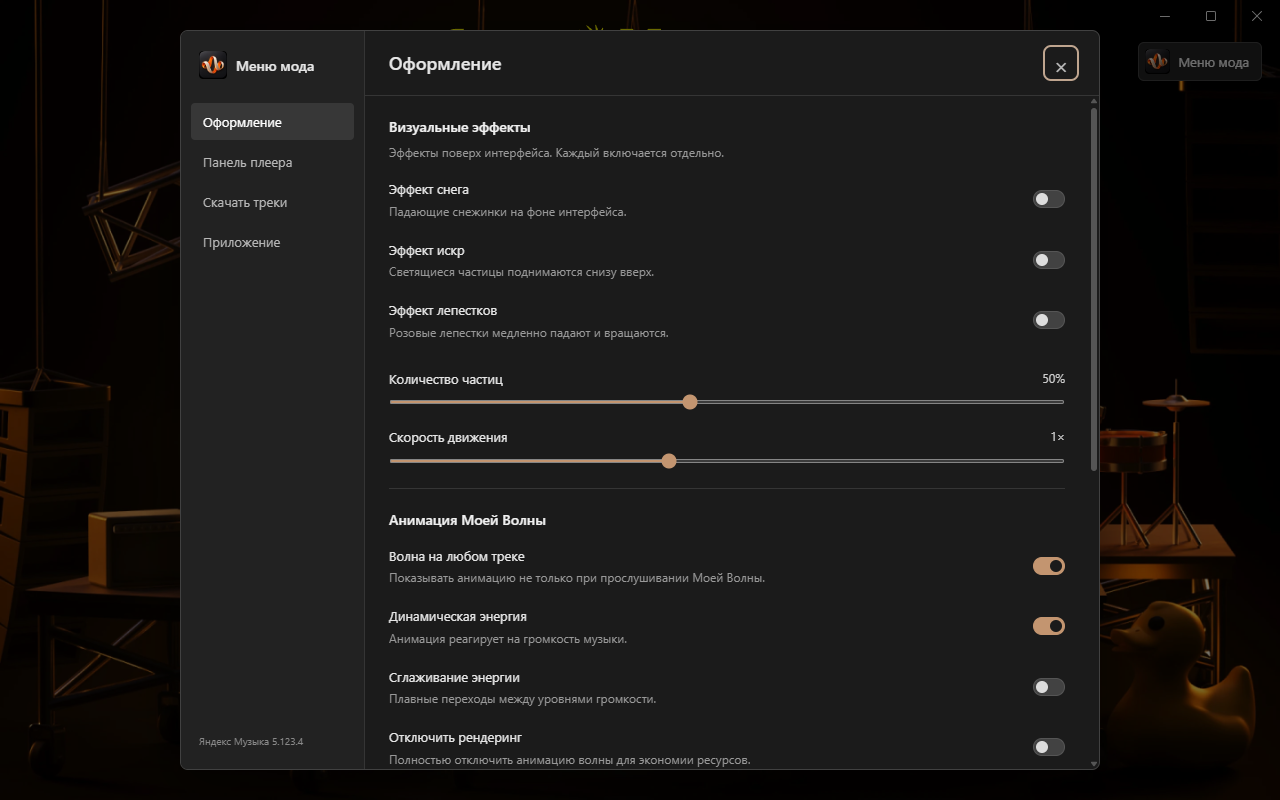
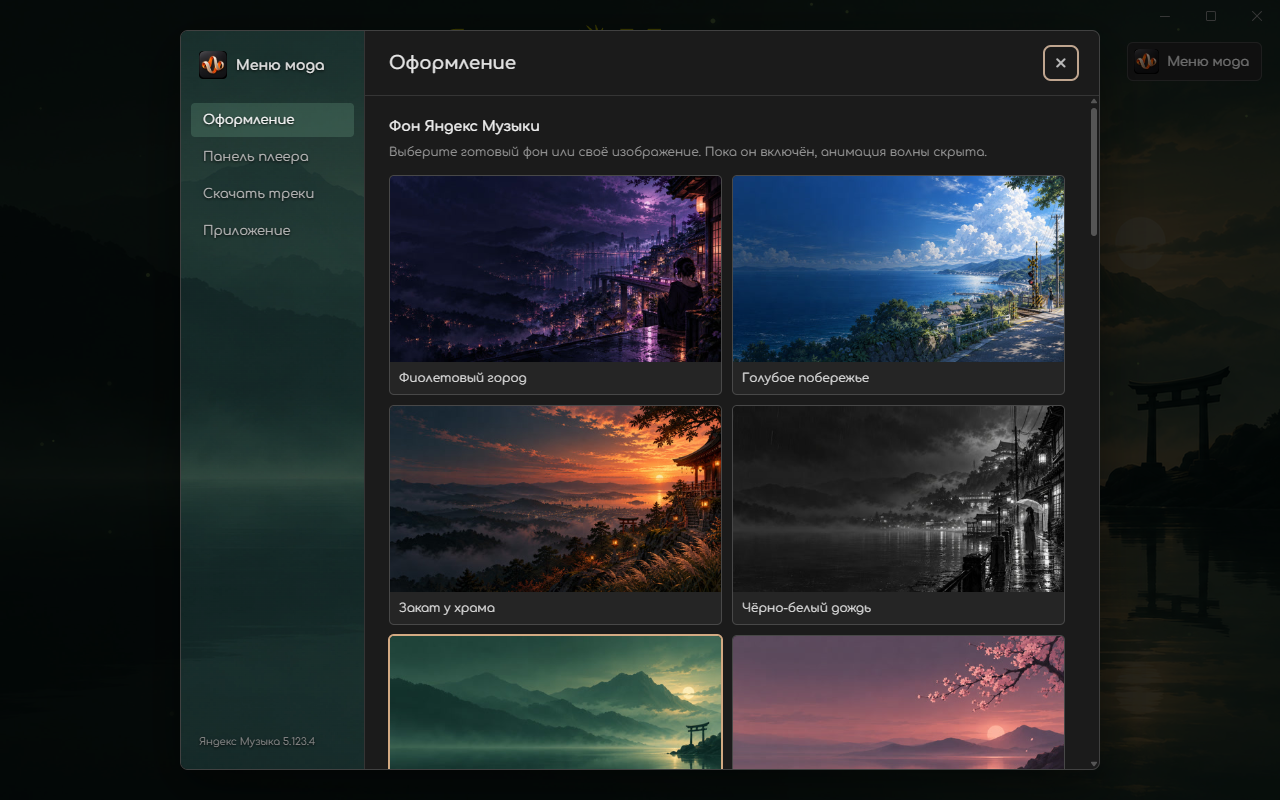
Обновить инструкцию и скриншоты для версии 1.3.0

diff --git a/README.md b/README.md
@@ -1,45 +1,15 @@
-# Яндекс Музыка Мод
+# Яндекс Музыка Мод 1.3.0
 
-Мод для Яндекс Музыки на Windows x64. Версия клиента в релизе — **5.123.4**.
+[Скачать установщик и portable-версию](https://github.com/EelinLp/Yandex-Music-Mod/releases/latest)
 
-[Скачать установщик](https://github.com/EelinLp/Yandex-Music-Mod/releases/latest) · [Все релизы](https://github.com/EelinLp/Yandex-Music-Mod/releases)
+1. Скачайте `YandexMusicMod-Setup-1.3.0.exe` из релиза и установите.
+2. Откройте «Яндекс Музыка Мод» через ярлык и войдите в аккаунт.
+3. Настройки — кнопка «Меню мода» справа вверху.
 
-## Возможности
+Для portable-версии распакуйте архив целиком и запустите `Яндекс Музыка.exe`.
 
-- **Панель плеера:** кодек и доступный битрейт трека, постоянный показ времени, расположение лайка и дизлайка, цвета и ширина панели.
-- **Авто-выбор качества:** лучшее доступное качество по умолчанию.
-- **Анимация Моей Волны:** частота кадров, интенсивность, реакция на музыку и сглаживание.
-- **Визуальные эффекты:** снег, искры и лепестки с отдельными переключателями, настройкой количества и скорости.
-- **Скачать треки:** загрузка музыки, выбор папки и сохранение обложек.
-- **Перенести треки из плейлиста:** добавление треков плейлиста в избранное.
-- **Мини-плеер:** отдельное окно, режим поверх остальных окон и управление обложкой.
-- **Текст песен и шрифты:** выбор источника текста, размытый фон, замена шрифтов.
-
-Без рекламных блоков мода и раздела разработчика. Названия основных функций сохранены из исходного мода.
-
-## Скриншоты
-
-### Оформление и эффекты
 ![Меню мода](menu.png)
 
-### Скачивание треков
-![Скачать треки](downloads.png)
+![Шрифты](fonts.png)
 
-### Мини-плеер и параметры приложения
-![Приложение](application.png)
-
-## Как запустить
-
-1. Скачайте **YandexMusicMod-Setup-1.0.0.exe** из [релиза](https://github.com/EelinLp/Yandex-Music-Mod/releases/latest).
-2. Установите и откройте **«Яндекс Музыка Мод»** через ярлык.
-3. Войдите в аккаунт. Панель открывается кнопкой **«Меню мода»** справа вверху.
-
-Для portable-версии: полностью распакуйте ZIP и запустите **«Яндекс Музыка.exe»**.
-
-## Исходники
-
-Полный комплект исходников и скриптов сборки — **YandexMusicMod-Source-1.0.0.zip** в релизе.
-Скачивание музыки сохраняет результат в MP3. Индикатор качества относится к воспроизводимому потоку.
-Воспроизведение под личным аккаунтом не входило в автоматическую проверку сборки.
-
-Это неофициальная модификация; проект не связан с Яндексом.
+Полные исходники и скрипты сборки — `YandexMusicMod-Source-1.3.0.zip` в релизе.

diff --git a/START.md b/START.md
@@ -1,7 +1,10 @@
 # Как запустить
 
-1. Запустите `YandexMusicMod-Setup-1.0.0.exe` и завершите установку.
+1. Запустите `YandexMusicMod-Setup-1.3.0.exe` и завершите установку.
 2. Откройте «Яндекс Музыка Мод» через ярлык на рабочем столе или в меню «Пуск».
 3. Войдите в аккаунт. Панель мода открывается кнопкой «Меню мода» справа вверху.
 
 Для portable-версии: полностью распакуйте архив в отдельную папку и запустите `Яндекс Музыка.exe`.
+
+
+
